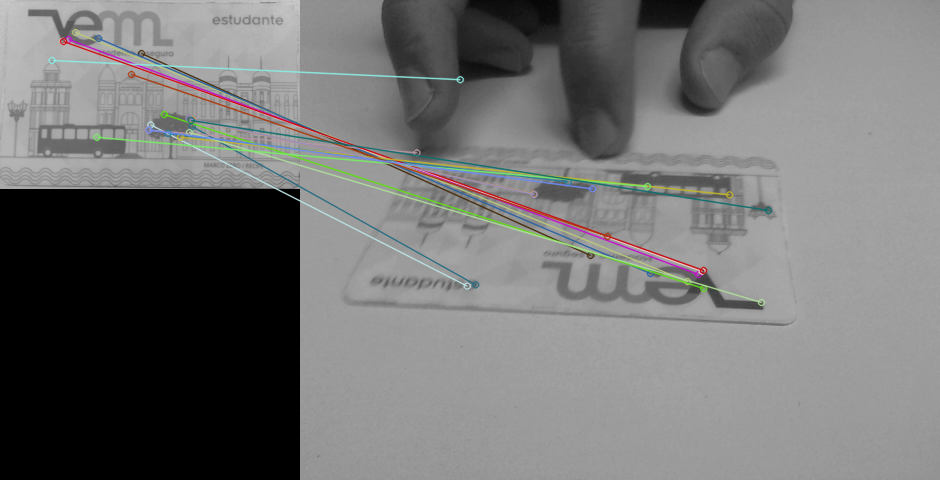
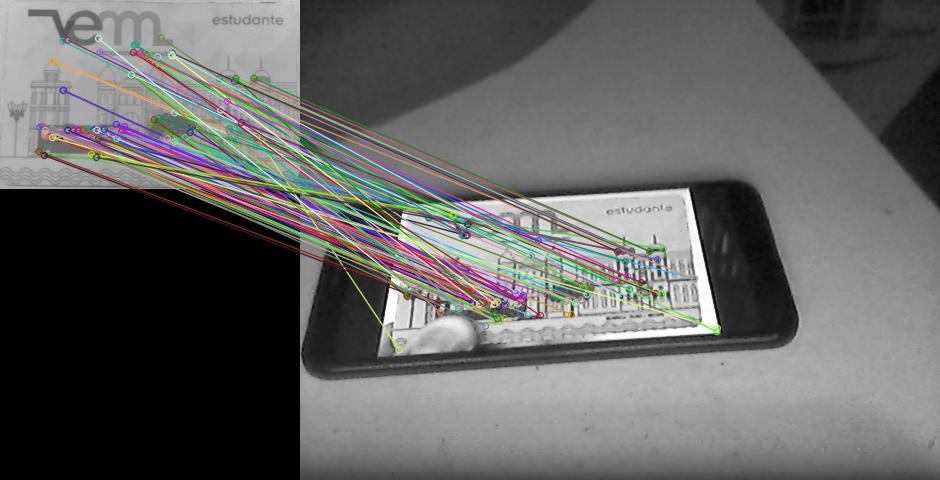
calibrated my camera and improved redndering performance

diff --git a/webcam2.py b/webcam2.py
@@ -1,5 +1,6 @@
 import numpy as np
 import cv2 as cv
+import time
 # import matplotlib.pyplot as plt
 
 # Load previously saved data
@@ -32,96 +33,106 @@ objp[:,:2] = np.mgrid[0:7,0:6].T.reshape(-1,2)
 axis = np.float32([[0,0,0], [0,3,0], [3,3,0], [3,0,0],[0,0,-3],[0,3,-3],[3,3,-3],[3,0,-3] ])
 
 
-cap = cv.VideoCapture(1)
+cap = cv.VideoCapture(0)
 img1 = cv.imread('fotos/box1.jpg',cv.IMREAD_GRAYSCALE)          # queryImage
 
+#limitando fps de leitura
+frame_rate = 60
+prev = 0
+
 while(True):
+
+    time_elapsed = time.time() - prev
     # Capture frame-by-frame
     ret, img2 = cap.read()
-    img2Gray = cv.cvtColor(img2, cv.COLOR_BGR2GRAY)
+
+    if time_elapsed > 1./frame_rate:
+        prev = time.time()
+
+        img2Gray = cv.cvtColor(img2, cv.COLOR_BGR2GRAY)
 
 
-    # Display the resulting frame
+        # Display the resulting frame
+        
+        if cv.waitKey(1) & 0xFF == ord('q'):
+            break
     
-    if cv.waitKey(1) & 0xFF == ord('q'):
-        break
-   
+        
     
-   
-   # Initiate ORB detector
-    orb = cv.ORB_create()
-    # find the keypoints and descriptors with ORB
-    kp1, des1 = orb.detectAndCompute(img1,None)
-    kp2, des2 = orb.detectAndCompute(img2Gray,None)
-    pts = cv.KeyPoint_convert(kp1)
-    pts3d = np.insert(pts, 2, 1, axis=1)
-    # print("kp1.x")
-    # print(len(pts))
+    # Initiate ORB detector
+        orb = cv.ORB_create()
+        # find the keypoints and descriptors with ORB
+        kp1, des1 = orb.detectAndCompute(img1,None)
+        kp2, des2 = orb.detectAndCompute(img2Gray,None)
+        pts = cv.KeyPoint_convert(kp1)
+        pts3d = np.insert(pts, 2, 1, axis=1)
+        # print("kp1.x")
+        # print(len(pts))
 
-    pts2d = cv.KeyPoint_convert(kp2)
-
-
-    # create BFMatcher object
-    bf = cv.BFMatcher(cv.NORM_HAMMING, crossCheck=True)
-    # Match descriptors.
-    matches = bf.match(des1,des2)
-    # Sort them in the order of their distance.
-    matches = sorted(matches, key = lambda x:x.distance)
-    # for m,n in matches:
-    #     if m.distance < 0.7*n.distance:
-    #         good.append(m)
+        pts2d = cv.KeyPoint_convert(kp2)
 
 
-    
-    limite = 0
-    distanciaMaxima = 40
-    a = []
-    b = []
-    for i in range(len(matches)):
-        a.append(matches[i].trainIdx)
-        b.append(matches[i].queryIdx)
-        # print(matches[i].distance)
-        if(matches[i].distance < distanciaMaxima):
-            limite = i-1
-
-    # print("b:")
-    # print(b)
-
-    pts2dd = np.asarray(pts2d) 
-    pts3dd = np.asarray(pts3d) 
-
-    pts2dd = pts2dd[a]
-    pts3dd = pts3dd[b]
+        # create BFMatcher object
+        bf = cv.BFMatcher(cv.NORM_HAMMING, crossCheck=True)
+        # Match descriptors.
+        matches = bf.match(des1,des2)
+        # Sort them in the order of their distance.
+        matches = sorted(matches, key = lambda x:x.distance)
+        # for m,n in matches:
+        #     if m.distance < 0.7*n.distance:
+        #         good.append(m)
 
 
-    # Draw first 10 matches.
-    img3 = cv.drawMatches(img1,kp1,img2Gray,kp2,matches[:20],None,flags=cv.DrawMatchesFlags_NOT_DRAW_SINGLE_POINTS)
-    print(limite)
-    if limite > 5:
-        print("RA")
-        ret,rvecs, tvecs = cv.solvePnP(pts3dd[:limite], pts2dd[:limite], mtx, dist)
-        width = img1.shape[0]
-        heigth = img1.shape[1]
-        axis1 = np.float32([[0,0,1],[0,width,1],[heigth,0,1],[heigth,width,1]])
-        # axis1 = np.float32([[0,0,1],[0,img1.width,1]])
-        imgpts, jac = cv.projectPoints(axis1, rvecs, tvecs, mtx, dist)
-        # print(imgpts[1][0][1])
-        # print(imgpts[0][0][1])
-        largura = int(imgpts[1][0][1] - imgpts[0][0][1])
-        altura = int(imgpts[3][0][1] - imgpts[2][0][1])
-        # print(largura)
-        # print(altura)
-        # cv.rectangle(img3,(imgpts[0][0][0],imgpts[0][0][1]),(imgpts[3][0][0],imgpts[3][0][1]),(0,255,0),3)
-        if(int(imgpts[0][0][1]) > -10 and int(imgpts[0][0][1]) < 1000):
-            print(int(imgpts[0][0][1]))
-            # cv.rectangle(img2,(imgpts[0][0][0],imgpts[0][0][1]),(imgpts[3][0][0],imgpts[3][0][1]),(0,255,0),3)
-        # project 3D points to image plane
-        imgpts, jac = cv.projectPoints(10*axis, rvecs, tvecs, mtx, dist)       
-        img2 = draw2(img2,pts2d,imgpts)
-    cv.imwrite('frame.png',img2)
-    cv.imwrite('frameSaida.png',img3)
-    print("frame")
-    cv.imshow('frame',img2)
+        
+        limite = 0
+        distanciaMaxima = 40
+        a = []
+        b = []
+        for i in range(len(matches)):
+            a.append(matches[i].trainIdx)
+            b.append(matches[i].queryIdx)
+            # print(matches[i].distance)
+            if(matches[i].distance < distanciaMaxima):
+                limite = i-1
+
+        # print("b:")
+        # print(b)
+
+        pts2dd = np.asarray(pts2d) 
+        pts3dd = np.asarray(pts3d) 
+
+        pts2dd = pts2dd[a]
+        pts3dd = pts3dd[b]
+
+
+        # Draw first 10 matches.
+        img3 = cv.drawMatches(img1,kp1,img2Gray,kp2,matches[:20000],None,flags=cv.DrawMatchesFlags_NOT_DRAW_SINGLE_POINTS)
+        print(limite)
+        if limite > 5:
+            print("RA")
+            ret,rvecs, tvecs = cv.solvePnP(pts3dd[:limite], pts2dd[:limite], mtx, dist)
+            width = img1.shape[0]
+            heigth = img1.shape[1]
+            axis1 = np.float32([[0,0,1],[0,width,1],[heigth,0,1],[heigth,width,1]])
+            # axis1 = np.float32([[0,0,1],[0,img1.width,1]])
+            imgpts, jac = cv.projectPoints(axis1, rvecs, tvecs, mtx, dist)
+            # print(imgpts[1][0][1])
+            # print(imgpts[0][0][1])
+            largura = int(imgpts[1][0][1] - imgpts[0][0][1])
+            altura = int(imgpts[3][0][1] - imgpts[2][0][1])
+            # print(largura)
+            # print(altura)
+            # cv.rectangle(img3,(imgpts[0][0][0],imgpts[0][0][1]),(imgpts[3][0][0],imgpts[3][0][1]),(0,255,0),3)
+            if(int(imgpts[0][0][1]) > -10 and int(imgpts[0][0][1]) < 1000):
+                print(int(imgpts[0][0][1]))
+                # cv.rectangle(img2,(imgpts[0][0][0],imgpts[0][0][1]),(imgpts[3][0][0],imgpts[3][0][1]),(0,255,0),3)
+            # project 3D points to image plane
+            imgpts, jac = cv.projectPoints(10*axis, rvecs, tvecs, mtx, dist)       
+            img2 = draw2(img2,pts2d,imgpts)
+        cv.imwrite('frame.png',img2)
+        cv.imwrite('frameSaida.png',img3)
+        print("frame")
+        cv.imshow('frame',img2)
 
 # When everything done, release the capture
 cap.release()

diff --git a/calibracao_gerson.py b/calibracao_gerson.py
@@ -1,0 +1,86 @@
+import numpy as np
+import cv2
+import glob
+
+# termination criteria
+criteria = (cv2.TERM_CRITERIA_EPS + cv2.TERM_CRITERIA_MAX_ITER, 30, 0.001)
+
+# prepare object points, like (0,0,0), (1,0,0), (2,0,0) ....,(6,5,0)
+objp = np.zeros((7*7,3), np.float32)
+objp[:,:2] = np.mgrid[0:7,0:7].T.reshape(-1,2)
+
+# Arrays to store object points and image points from all the images.
+objpoints = [] # 3d point in real world space
+imgpoints = [] # 2d points in image plane.
+
+images = glob.glob('calibracao_gerson/*.jpg')
+count =0
+for fname in images:
+    count += 1
+    img = cv2.imread(fname)
+    gray = cv2.cvtColor(img,cv2.COLOR_BGR2GRAY)
+
+    # Find the chess board corners
+    ret, corners = cv2.findChessboardCorners(gray, (7,9),None)
+    print("aaa")
+    # If found, add object points, image points (after refining them)
+    if ret == True:
+        print("aa")
+        objpoints.append(objp)
+
+        corners2 = cv2.cornerSubPix(gray,corners,(11,11),(-1,-1),criteria)
+        imgpoints.append(corners2)
+
+        # Draw and display the corners
+        img = cv2.drawChessboardCorners(img, (7,9), corners2,ret)
+        cv2.imshow('img',img)
+        cv2.waitKey(50)
+        cv2.imwrite('calibracao_gerson/result'+str(count)+'.png',img)
+
+        
+
+    
+
+# calibração
+ret, mtx, dist, rvecs, tvecs = cv2.calibrateCamera(objpoints, imgpoints, gray.shape[::-1],None,None)
+np.savez("R1", ret=ret, mtx=mtx, dist=dist, rvecs=rvecs, tvecs=tvecs)
+img = cv2.imread('calibracao_gerson/7.jpg')
+h,  w = img.shape[:2]
+newcameramtx, roi=cv2.getOptimalNewCameraMatrix(mtx,dist,(w,h),0,(w,h))
+
+
+# undistort
+dst = cv2.undistort(img, mtx, dist, None, newcameramtx)
+# crop the image
+x,y,w,h = roi
+dst = dst[y:y+h, x:x+w]
+cv2.imwrite('calibracao_gerson/calibrado/undistort.png',dst)
+
+
+# undistort
+mapx,mapy = cv2.initUndistortRectifyMap(mtx,dist,None,newcameramtx,(w,h),5)
+dst = cv2.remap(img,mapx,mapy,cv2.INTER_LINEAR)
+
+# crop the image
+x,y,w,h = roi
+dst = dst[y:y+h, x:x+w]
+cv2.imwrite('calibracao_gerson/calibrado/remapping.png',dst)
+
+
+
+
+#Error
+mean_error = 0
+tot_error= 0
+print(len(objpoints))
+for i in range(len(objpoints)):
+    imgpoints2, _ = cv2.projectPoints(objpoints[i], rvecs[i], tvecs[i], mtx, dist)
+    error = cv2.norm(imgpoints[i],imgpoints2, cv2.NORM_L2)/len(imgpoints2)
+    tot_error += error
+
+print ("total error: ", mean_error/len(objpoints))
+
+
+
+
+cv2.destroyAllWindows()

diff --git a/src/ar_main.py b/src/ar_main.py
@@ -35,7 +35,7 @@ def main():
 
     
     # init video capture
-    cap = cv2.VideoCapture(1)
+    cap = cv2.VideoCapture(0)
     start = time.time()
 
     dst_old = np.array([[0,0],[0,0],[0,0],[0,0]])
@@ -126,7 +126,7 @@ def main():
                         pass
                 # draw first 10 matches.
                 if args.matches:
-                    frame = cv2.drawMatches(model, kp_model, frame, kp_frame, matches[:10],None,flags=cv2.DrawMatchesFlags_NOT_DRAW_SINGLE_POINTS)
+                    frame = cv2.drawMatches(model, kp_model, frame, kp_frame, matches[:2000000],None,flags=cv2.DrawMatchesFlags_NOT_DRAW_SINGLE_POINTS)
                     # img3 = cv.drawMatches(img1,kp1,img2Gray,kp2,matches[:20],None,flags=cv.DrawMatchesFlags_NOT_DRAW_SINGLE_POINTS)
                 # show result
                 # frame = cv2.drawMatches(model, kp_model, frame, kp_frame, matches[:10],None,flags=cv2.DrawMatchesFlags_NOT_DRAW_SINGLE_POINTS)

diff --git a/webcam.py b/webcam.py
@@ -3,7 +3,7 @@ import cv2 as cv
 import matplotlib.pyplot as plt
 
 
-cap = cv.VideoCapture(1)
+cap = cv.VideoCapture(0)
 img1 = cv.imread('fotos/box1.jpg',cv.IMREAD_GRAYSCALE)          # queryImage
 
 while(True):
@@ -46,7 +46,7 @@ while(True):
     # Sort them in the order of their distance.
     matches = sorted(matches, key = lambda x:x.distance)
     # Draw first 10 matches.
-    img3 = cv.drawMatches(img1,kp1,img2,kp2,matches[:20],None,flags=cv.DrawMatchesFlags_NOT_DRAW_SINGLE_POINTS)
+    img3 = cv.drawMatches(img1,kp1,img2,kp2,matches[:200000],None,flags=cv.DrawMatchesFlags_NOT_DRAW_SINGLE_POINTS)
     # plt.imshow(img3),plt.show()
 
     cv.imshow('frame',img3)
